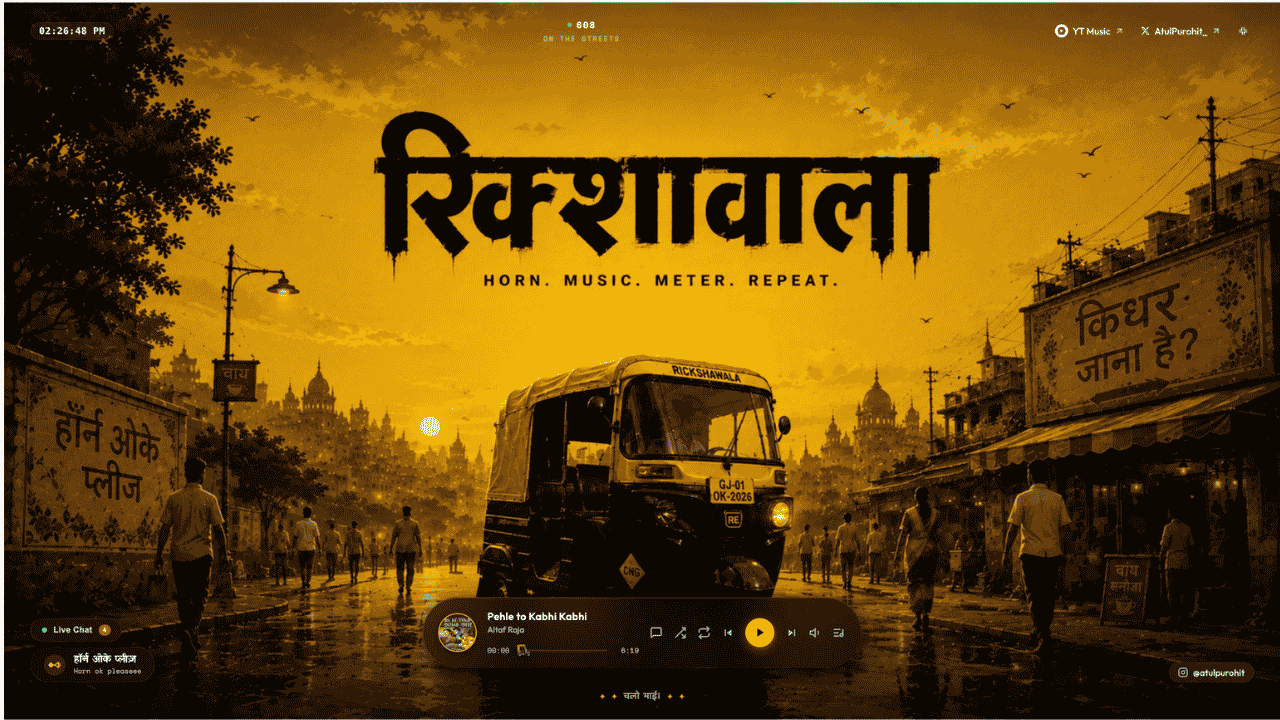
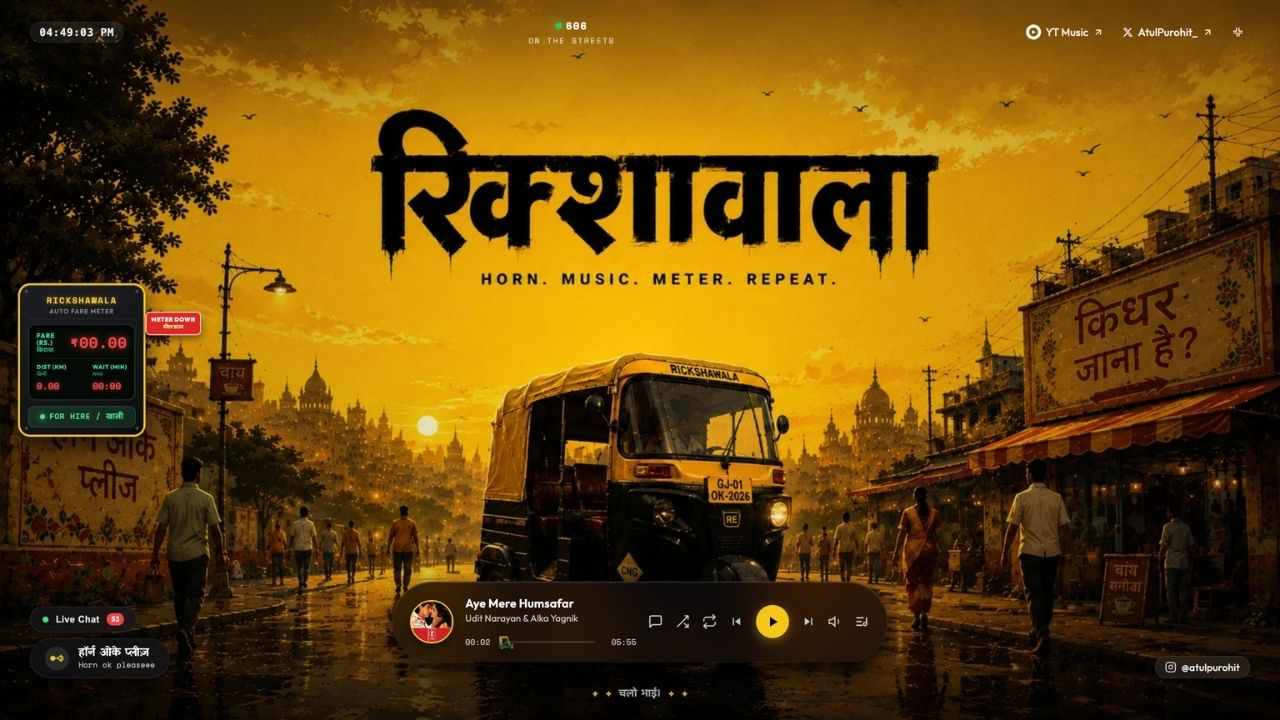
chore: update og-preview.jpg asset & update social media meta tags with v2 cache busters

diff --git a/about.html b/about.html
@@ -18,21 +18,21 @@
   <meta property="og:url" content="https://rickshawala.fun/about">
   <meta property="og:title" content="About RICKSHAWALA — 90s Hindi Music &amp; Auto-Rickshaw Nostalgia">
   <meta property="og:description" content="Discover the story behind RICKSHAWALA.FUN, an independent project by Atul Purohit celebrating 90s Hindi songs and Indian street culture.">
-  <meta property="og:image" content="https://rickshawala.fun/assets/og-preview.jpg">
-  <meta property="og:image:secure_url" content="https://rickshawala.fun/assets/og-preview.jpg">
+  <meta property="og:image" content="https://rickshawala.fun/assets/og-preview.jpg?v=2">
+  <meta property="og:image:secure_url" content="https://rickshawala.fun/assets/og-preview.jpg?v=2">
   <meta property="og:image:type" content="image/jpeg">
   <meta property="og:image:width" content="1200">
   <meta property="og:image:height" content="630">
   <meta property="og:image:alt" content="About RICKSHAWALA — 90s Hindi Music &amp; Auto-Rickshaw Nostalgia">
   <meta property="og:site_name" content="RICKSHAWALA.FUN">
-  <link rel="image_src" href="https://rickshawala.fun/assets/og-preview.jpg">
+  <link rel="image_src" href="https://rickshawala.fun/assets/og-preview.jpg?v=2">
 
   <!-- Twitter / X -->
   <meta name="twitter:card" content="summary_large_image">
   <meta name="twitter:url" content="https://rickshawala.fun/about">
   <meta name="twitter:title" content="About RICKSHAWALA — 90s Hindi Music &amp; Auto-Rickshaw Nostalgia">
   <meta name="twitter:description" content="Discover the story behind RICKSHAWALA.FUN, an independent project by Atul Purohit celebrating 90s Hindi songs and Indian street culture.">
-  <meta name="twitter:image" content="https://rickshawala.fun/assets/og-preview.jpg">
+  <meta name="twitter:image" content="https://rickshawala.fun/assets/og-preview.jpg?v=2">
 
   <!-- Favicon: proper PNG files for Google Search & all browsers -->
   <link rel="icon" type="image/png" sizes="32x32" href="/favicon.png?v=2">

diff --git a/about/index.html b/about/index.html
@@ -18,21 +18,21 @@
   <meta property="og:url" content="https://rickshawala.fun/about">
   <meta property="og:title" content="About RICKSHAWALA — 90s Hindi Music &amp; Auto-Rickshaw Nostalgia">
   <meta property="og:description" content="Discover the story behind RICKSHAWALA.FUN, an independent project by Atul Purohit celebrating 90s Hindi songs and Indian street culture.">
-  <meta property="og:image" content="https://rickshawala.fun/assets/og-preview.jpg">
-  <meta property="og:image:secure_url" content="https://rickshawala.fun/assets/og-preview.jpg">
+  <meta property="og:image" content="https://rickshawala.fun/assets/og-preview.jpg?v=2">
+  <meta property="og:image:secure_url" content="https://rickshawala.fun/assets/og-preview.jpg?v=2">
   <meta property="og:image:type" content="image/jpeg">
   <meta property="og:image:width" content="1200">
   <meta property="og:image:height" content="630">
   <meta property="og:image:alt" content="About RICKSHAWALA — 90s Hindi Music &amp; Auto-Rickshaw Nostalgia">
   <meta property="og:site_name" content="RICKSHAWALA.FUN">
-  <link rel="image_src" href="https://rickshawala.fun/assets/og-preview.jpg">
+  <link rel="image_src" href="https://rickshawala.fun/assets/og-preview.jpg?v=2">
 
   <!-- Twitter / X -->
   <meta name="twitter:card" content="summary_large_image">
   <meta name="twitter:url" content="https://rickshawala.fun/about">
   <meta name="twitter:title" content="About RICKSHAWALA — 90s Hindi Music &amp; Auto-Rickshaw Nostalgia">
   <meta name="twitter:description" content="Discover the story behind RICKSHAWALA.FUN, an independent project by Atul Purohit celebrating 90s Hindi songs and Indian street culture.">
-  <meta name="twitter:image" content="https://rickshawala.fun/assets/og-preview.jpg">
+  <meta name="twitter:image" content="https://rickshawala.fun/assets/og-preview.jpg?v=2">
 
   <!-- Favicon: proper PNG files for Google Search & all browsers -->
   <link rel="icon" type="image/png" sizes="32x32" href="/favicon.png?v=2">

diff --git a/index.html b/index.html
@@ -18,22 +18,22 @@
   <meta property="og:url" content="https://rickshawala.fun/">
   <meta property="og:title" content="RICKSHAWALA.FUN — 90s Hindi Bangers &amp; Nostalgia">
   <meta property="og:description" content="A nostalgic digital ride through the unforgettable Hindi songs of the 90s, inspired by the auto-rickshaw rides that carried them.">
-  <meta property="og:image" content="https://rickshawala.fun/assets/og-preview.jpg">
-  <meta property="og:image:secure_url" content="https://rickshawala.fun/assets/og-preview.jpg">
+  <meta property="og:image" content="https://rickshawala.fun/assets/og-preview.jpg?v=2">
+  <meta property="og:image:secure_url" content="https://rickshawala.fun/assets/og-preview.jpg?v=2">
   <meta property="og:image:type" content="image/jpeg">
   <meta property="og:image:width" content="1200">
   <meta property="og:image:height" content="630">
   <meta property="og:image:alt" content="RICKSHAWALA 90s Hindi Bangers &amp; Auto-Rickshaw Nostalgia">
   <meta property="og:site_name" content="RICKSHAWALA.FUN">
   <meta property="og:locale" content="en_US">
-  <link rel="image_src" href="https://rickshawala.fun/assets/og-preview.jpg">
+  <link rel="image_src" href="https://rickshawala.fun/assets/og-preview.jpg?v=2">
 
   <!-- Twitter / X Card -->
   <meta name="twitter:card" content="summary_large_image">
   <meta name="twitter:url" content="https://rickshawala.fun/">
   <meta name="twitter:title" content="RICKSHAWALA.FUN — 90s Hindi Bangers &amp; Nostalgia">
   <meta name="twitter:description" content="A nostalgic digital ride through the unforgettable Hindi songs of the 90s, inspired by the auto-rickshaw rides that carried them.">
-  <meta name="twitter:image" content="https://rickshawala.fun/assets/og-preview.jpg">
+  <meta name="twitter:image" content="https://rickshawala.fun/assets/og-preview.jpg?v=2">
   <meta name="twitter:image:alt" content="RICKSHAWALA 90s Hindi Bangers &amp; Auto-Rickshaw Nostalgia">
 
   <!-- Theme & PWA -->
